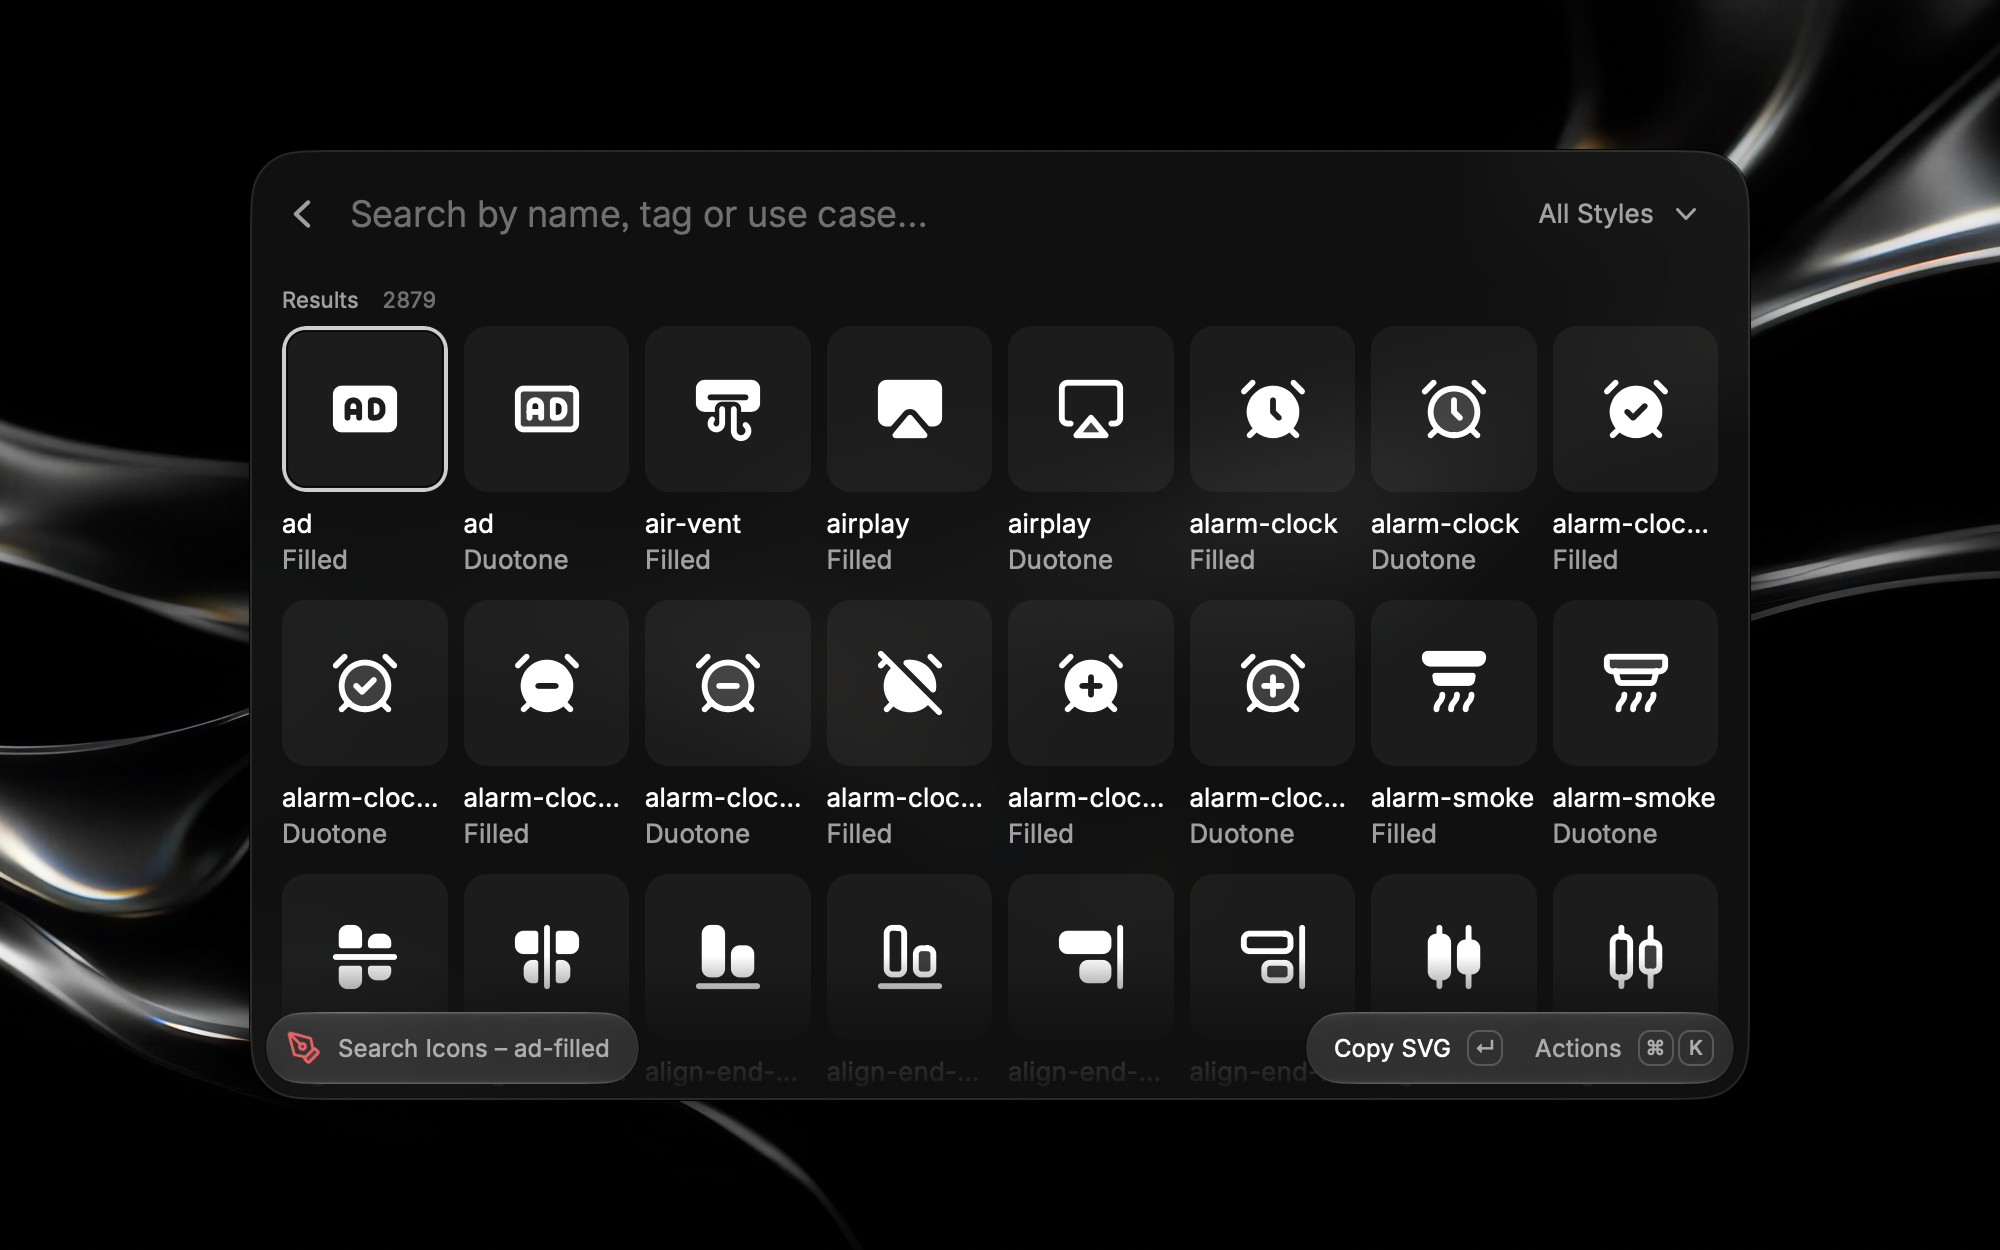
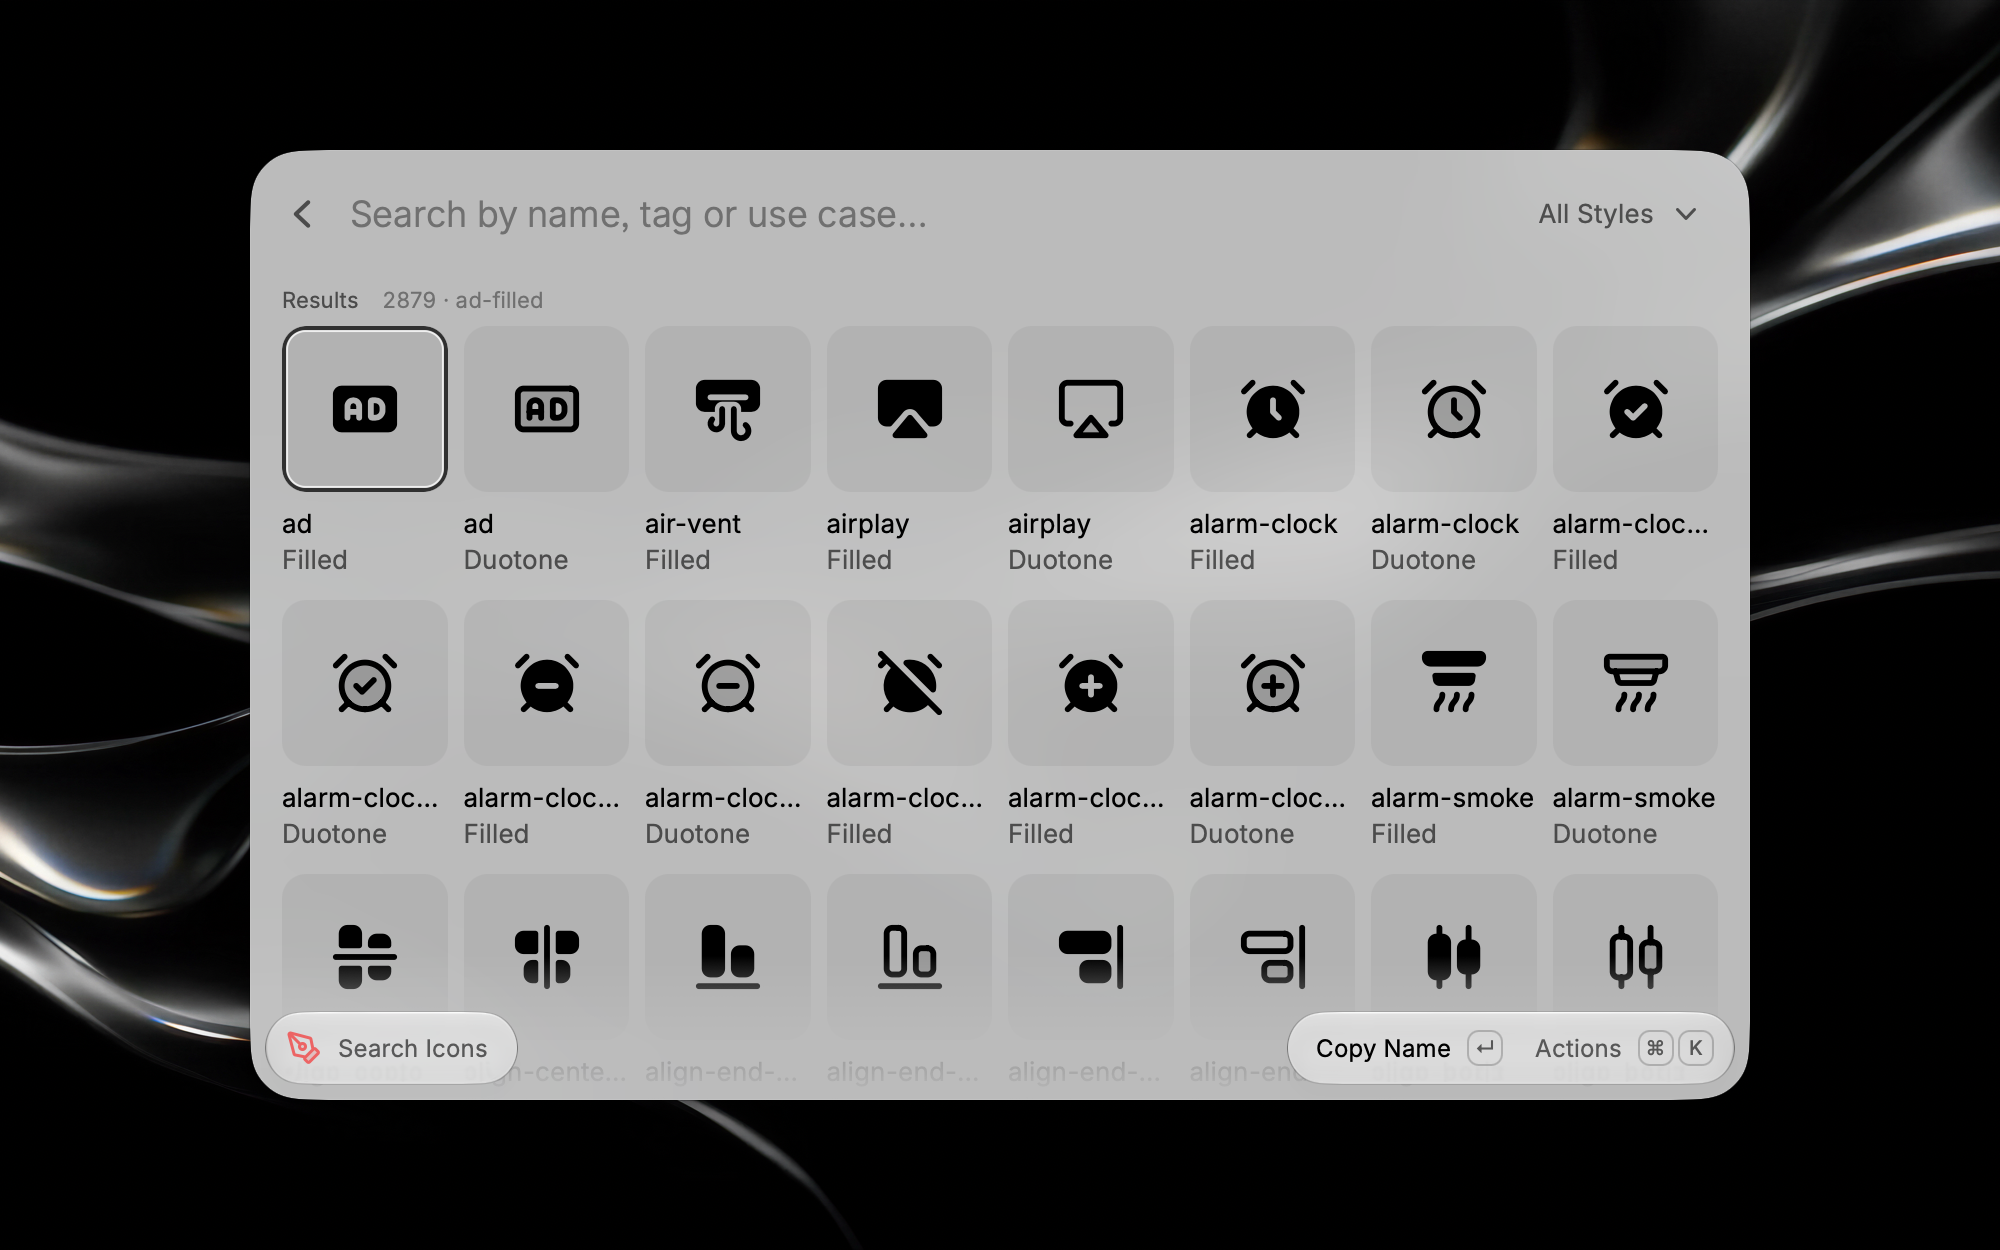
fix: updates for raycast store review

diff --git a/raycast/src/search-icons.tsx b/raycast/src/search-icons.tsx
@@ -12,7 +12,7 @@ import {
   showHUD,
 } from "@raycast/api";
 import { showFailureToast, useFetch, useLocalStorage } from "@raycast/utils";
-import { memo, useEffect, useMemo, useState } from "react";
+import { cloneElement, memo, useEffect, useMemo, useState } from "react";
 import { CATALOGUE_URL, parseCatalogue, toItems, type IconItem } from "./catalogue";
 import { search, type Style } from "./search";
 
@@ -141,7 +141,10 @@ const IconGridItems = memo(function IconGridItems({
             <ActionPanel>
               {iconActions(item)
                 .sort((a, b) => Number(b.id === primaryAction) - Number(a.id === primaryAction))
-                .map((action) => action.element)}
+                // Raycast assigns the first two actions Enter and Cmd+Enter, so they can't have their own shortcuts.
+                .map((action, index) =>
+                  index < 2 ? cloneElement(action.element, { shortcut: undefined }) : action.element,
+                )}
               <ActionPanel.Section>
                 <ActionPanel.Submenu
                   title="Change Color…"
@@ -199,7 +202,6 @@ export default function Command() {
       columns={8}
       inset={Grid.Inset.Large}
       isLoading={isLoading}
-      navigationTitle={selected ? `Search Icons – ${selected}` : "Search Icons"}
       searchBarPlaceholder="Search by name, tag or use case"
       onSearchTextChange={setSearchText}
       onSelectionChange={setSelected}
@@ -231,7 +233,11 @@ export default function Command() {
       ) : catalogue && results.length === 0 ? (
         <Grid.EmptyView icon={Icon.MagnifyingGlass} title="No Icons Found" description="Try another name or tag." />
       ) : (
-        <Grid.Section title="Results" subtitle={catalogue ? String(results.length) : undefined}>
+        <Grid.Section
+          title="Results"
+          // Grid titles truncate, so the selected icon's full slug goes here.
+          subtitle={catalogue ? [results.length, selected].filter(Boolean).join(" · ") : undefined}
+        >
           <IconGridItems
             items={page}
             color={color}
